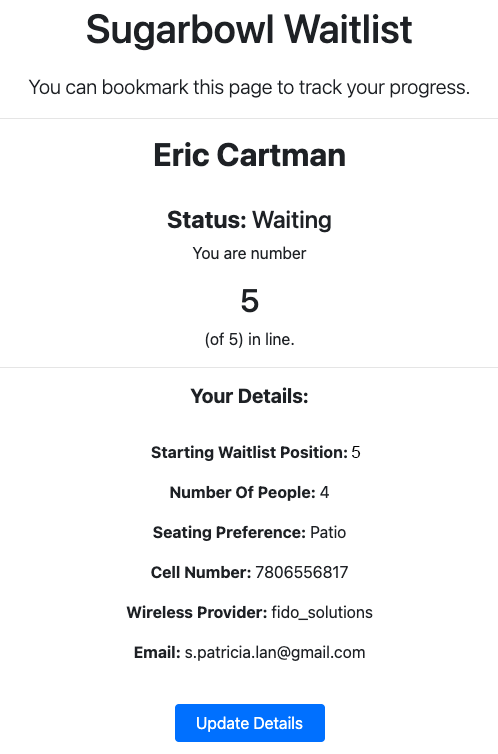
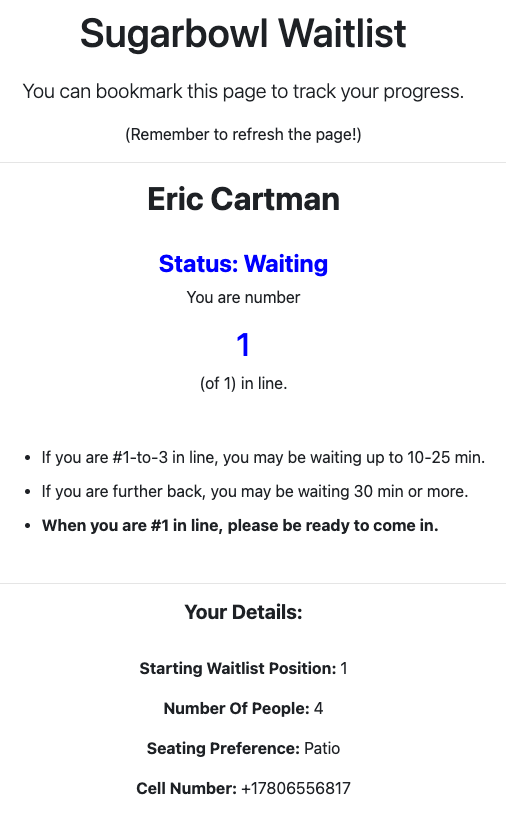
added guest ability to confirm coming in

diff --git a/controllers/sessionController.js b/controllers/sessionController.js
@@ -37,6 +37,10 @@ exports.session_list_all = function(req, res, next) {
             Session.countDocuments({ status: 'Notified'})
                 .exec(callback)
         },
+        sessions_confirmedCount: function(callback) {
+            Session.countDocuments({ status: 'Confirmed'})
+                .exec(callback)
+        },
         sessions_all: function(callback) {
             Session.find().where('status').ne('Archived')
                 .sort([['createdAt', 1]])
@@ -45,7 +49,7 @@ exports.session_list_all = function(req, res, next) {
     }, function(err, results) {
         if (err) { return next(err); } // Error in API usage
         // Success, so render
-        res.render('sessions_all', {title: 'Active Sessions', sessions_waitCount: results.sessions_waitCount, sessions_notifiedCount: results.sessions_notifiedCount, sessions_all: results.sessions_all});
+        res.render('sessions_all', {title: 'Active Sessions', sessions_waitCount: results.sessions_waitCount, sessions_notifiedCount: results.sessions_notifiedCount, sessions_confirmedCount: results.sessions_confirmedCount, sessions_all: results.sessions_all});
     });
 };
 
@@ -86,6 +90,26 @@ exports.session_list_notified = function(req, res, next) {
         if (err) { return next(err); } // Error in API usage
         // Success, so render
         res.render('sessions_notified', {title: "'Notified' Sessions", sessions_notifiedCount: results.sessions_notifiedCount, sessions_notified: results.sessions_notified});
+    });
+};
+
+// Display list of 'confirmed' sessions
+exports.session_list_confirmed = function(req, res, next) {
+
+    async.parallel({
+        sessions_confirmedCount: function(callback) {
+            Session.countDocuments({ status: 'Confirmed' })
+                .exec(callback)
+        },
+        sessions_confirmed: function(callback) {
+            Session.find({ status: 'Confirmed' })
+                .sort([['createdAt', -1], ['first_name']])
+                .exec(callback)
+        },
+    }, function (err, results) {
+        if (err) { return next(err);} // Error in API usage
+        // Success, so render
+        res.render('sessions_confirmed', {title: "'Confirmed' Sessions", sessions_confirmedCount: results.sessions_confirmedCount, sessions_confirmed: results.sessions_confirmed});
     });
 };
 
@@ -518,7 +542,7 @@ exports.session_notify_post = function(req, res, next) {
 
         // Set the parameters
         const params = {
-            Message: ` Hi ${name}! We have a table for you! Please come in.` /* required */,
+            Message: ` Hi ${name}! This is Sugarbowl again. We have a table for you! Please come in.` /* required */,
             PhoneNumber: `+1${cell_num}` //PHONE_NUMBER, in the E.164 phone number structure
         };
 
@@ -554,6 +578,28 @@ exports.session_notify_post = function(req, res, next) {
         run();
 
     });
+};
+
+// Archive request for Confirmed Sessions on GET
+exports.session_archiveRequestConfirmed_get = function(req, res, next) {
+    res.render('sessions_archive_request_confirmed', {title: 'Archive Sessions Request'})
+};
+
+// Archive request for Confirmed Sessions on POST
+exports.session_archiveRequestConfirmed_post = function(req, res, next) {
+    var date_iso = new Date(Date.now() - 3600000).toISOString() // Minus 1h in milliseconds; is date 1h ago in msec
+
+    if (req.body.archiveSessions == 'true') {
+        Session.updateMany({status: 'Confirmed', wait_end: { $lt: date_iso }}, {status: 'Archived'}, {new: true},
+            function (err, results) {
+                if (err) {return next(err);}
+                else {
+                    res.redirect('/waitlist/sessions/confirmed');
+                }
+            }
+        );
+    }
+    
 };
 
 // Archive request for Notified Sessions on GET
@@ -619,4 +665,20 @@ exports.session_notifyAll_post = function(req, res, next) {
         );
         
     }
+};
+
+// Confirming a session on POST
+exports.session_confirm_post = function(req, res, next) {
+
+    if (req.body.confirmSession == 'true') {
+        Session.findByIdAndUpdate(req.params.id, {status: 'Confirmed'}, {new: true},
+            function (err, session) {
+                if (err) {return next(err);}
+                else {
+                    res.redirect(session.urlPosition);
+                }
+            }
+        );
+    }
+    
 };

diff --git a/routes/waitlist.js b/routes/waitlist.js
@@ -53,6 +53,9 @@ router.get('/session/:id', session_controller.session_detail);
 // GET request for one Session's position-in-line
 router.get('/guest/:id/position', session_controller.session_position);
 
+// POST request to confirm Session
+router.post('/guest/:id/position', session_controller.session_confirm_post);
+
 // GET request for list of 'all' Sessions
 router.get('/sessions', session_controller.session_list_all); 
 
@@ -62,8 +65,17 @@ router.get('/sessions/waiting', session_controller.session_list_waiting);
 // GET request for list of 'notified' Sessions
 router.get('/sessions/notified', session_controller.session_list_notified); 
 
+// GET request for list of 'confirmed' Sessions
+router.get('/sessions/confirmed', session_controller.session_list_confirmed); 
+
 // GET request to list of 'Archived' Sessions
 router.get('/sessions/archived', session_controller.session_list_archived);
+
+// GET request to archive Confirmed Sessions
+router.get('/sessions/archive-request-confirmed', session_controller.session_archiveRequestConfirmed_get);
+
+// POST request to archive Confirmed Sessions
+router.post('/sessions/archive-request-confirmed', session_controller.session_archiveRequestConfirmed_post);
 
 // GET request to archive Notified Sessions
 router.get('/sessions/archive-request-notified', session_controller.session_archiveRequest_get);
@@ -71,16 +83,16 @@ router.get('/sessions/archive-request-notified', session_controller.session_arch
 // POST request to archive Notified Sessions
 router.post('/sessions/archive-request-notified', session_controller.session_archiveRequest_post);
 
-// // GET request to archive Waiting Sessions
+// GET request to archive Waiting Sessions
 router.get('/sessions/archive-request-waiting', session_controller.session_archiveRequestWaiting_get);
 
-// // POST request to archive Waiting Sessions
+// POST request to archive Waiting Sessions
 router.post('/sessions/archive-request-waiting', session_controller.session_archiveRequestWaiting_post);
 
-// // GET request to notify ALL Waiting Sessions
+// GET request to notify ALL Waiting Sessions
 router.get('/sessions/notify-all', session_controller.session_notifyAll_get);
 
-// // POST request to notify ALL Waiting Sessions
+// POST request to notify ALL Waiting Sessions
 router.post('/sessions/notify-all', session_controller.session_notifyAll_post);
 
 module.exports = router;

diff --git a/models/session.js b/models/session.js
@@ -21,7 +21,7 @@ var SessionSchema = new Schema(
         status: {
             type: String,
             required: true,
-            enum: ['Waiting', 'Notified', 'Archived'],
+            enum: ['Waiting', 'Notified', 'Confirmed', 'Archived'],
             default: 'Waiting'
         },
         position: {type: Number, min: 1},
